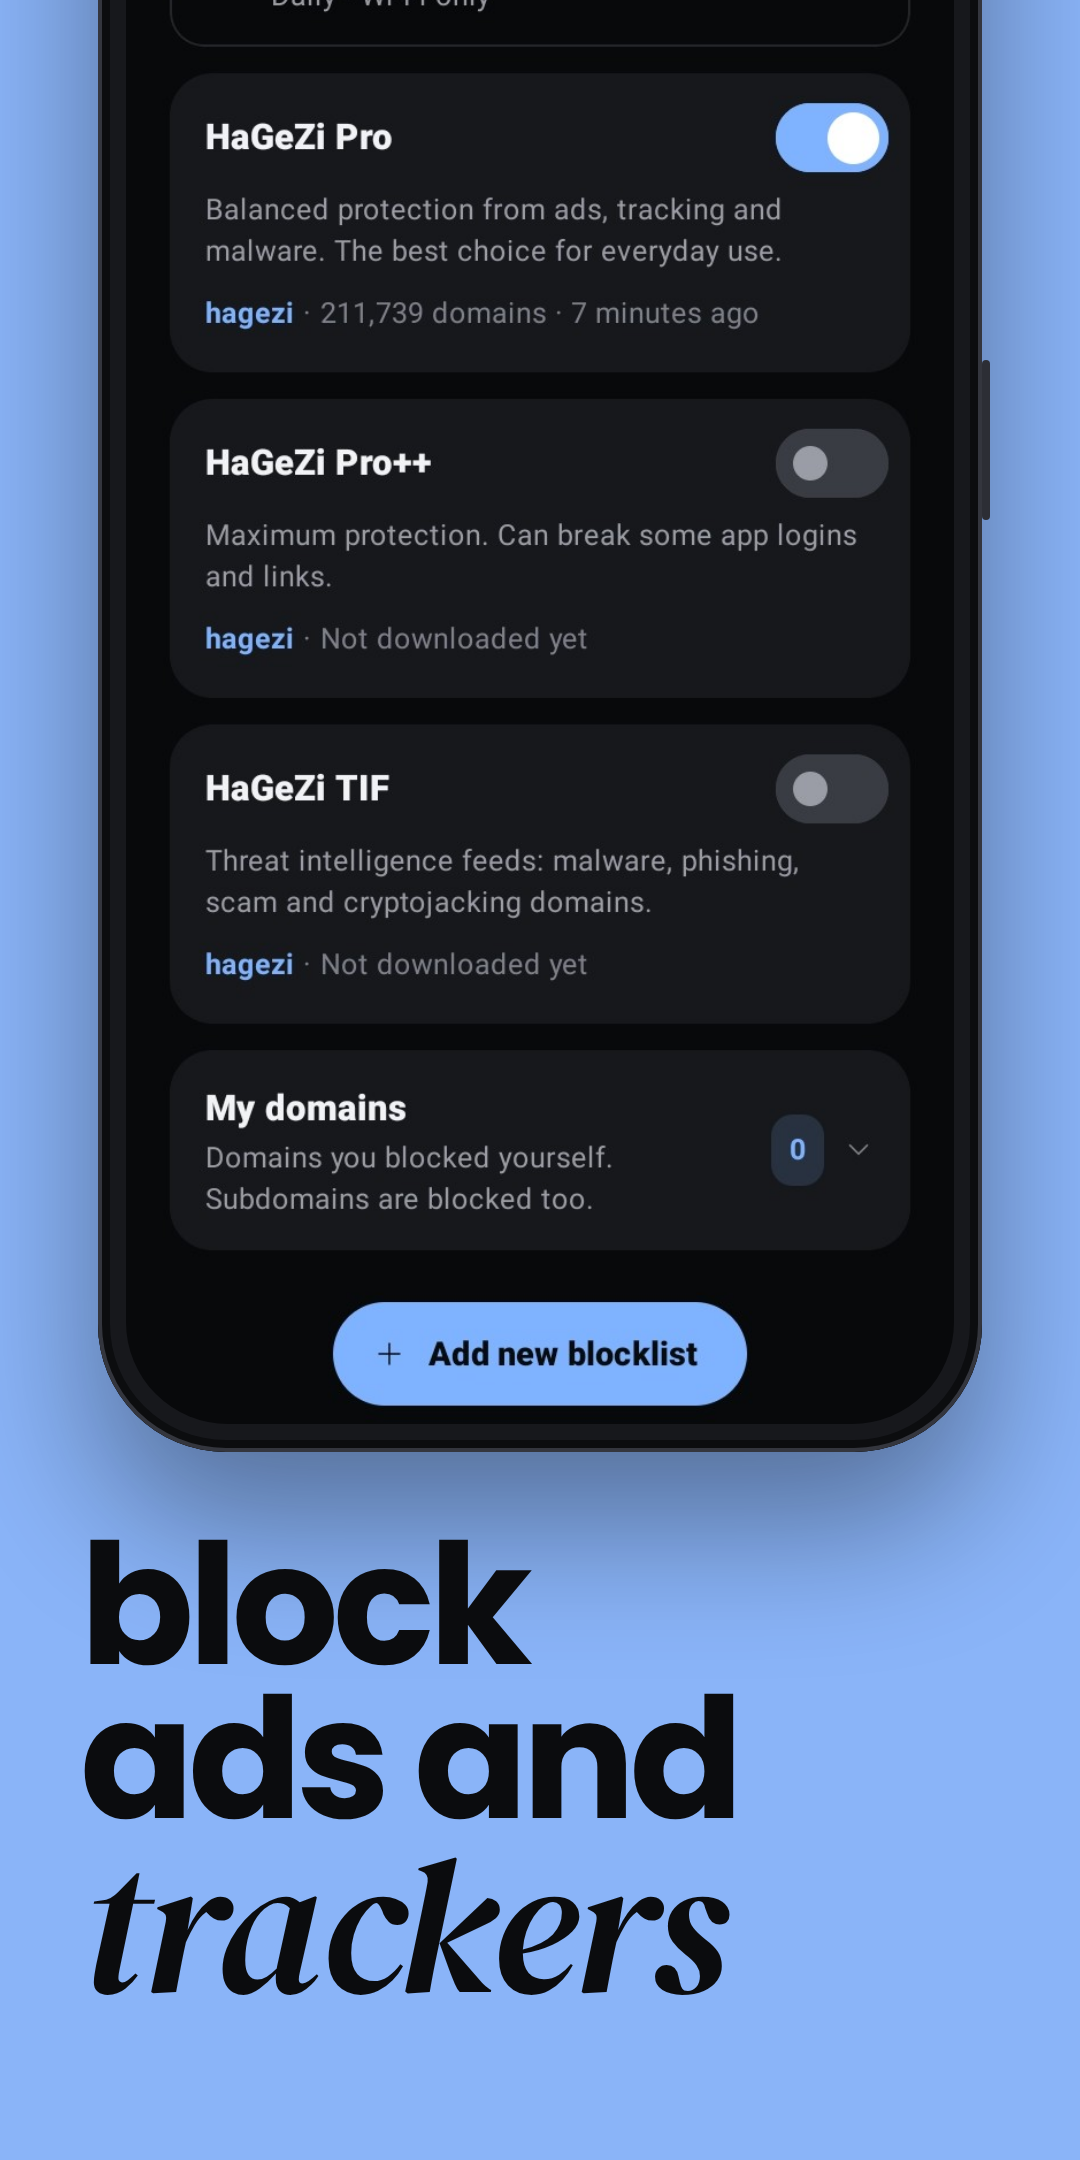
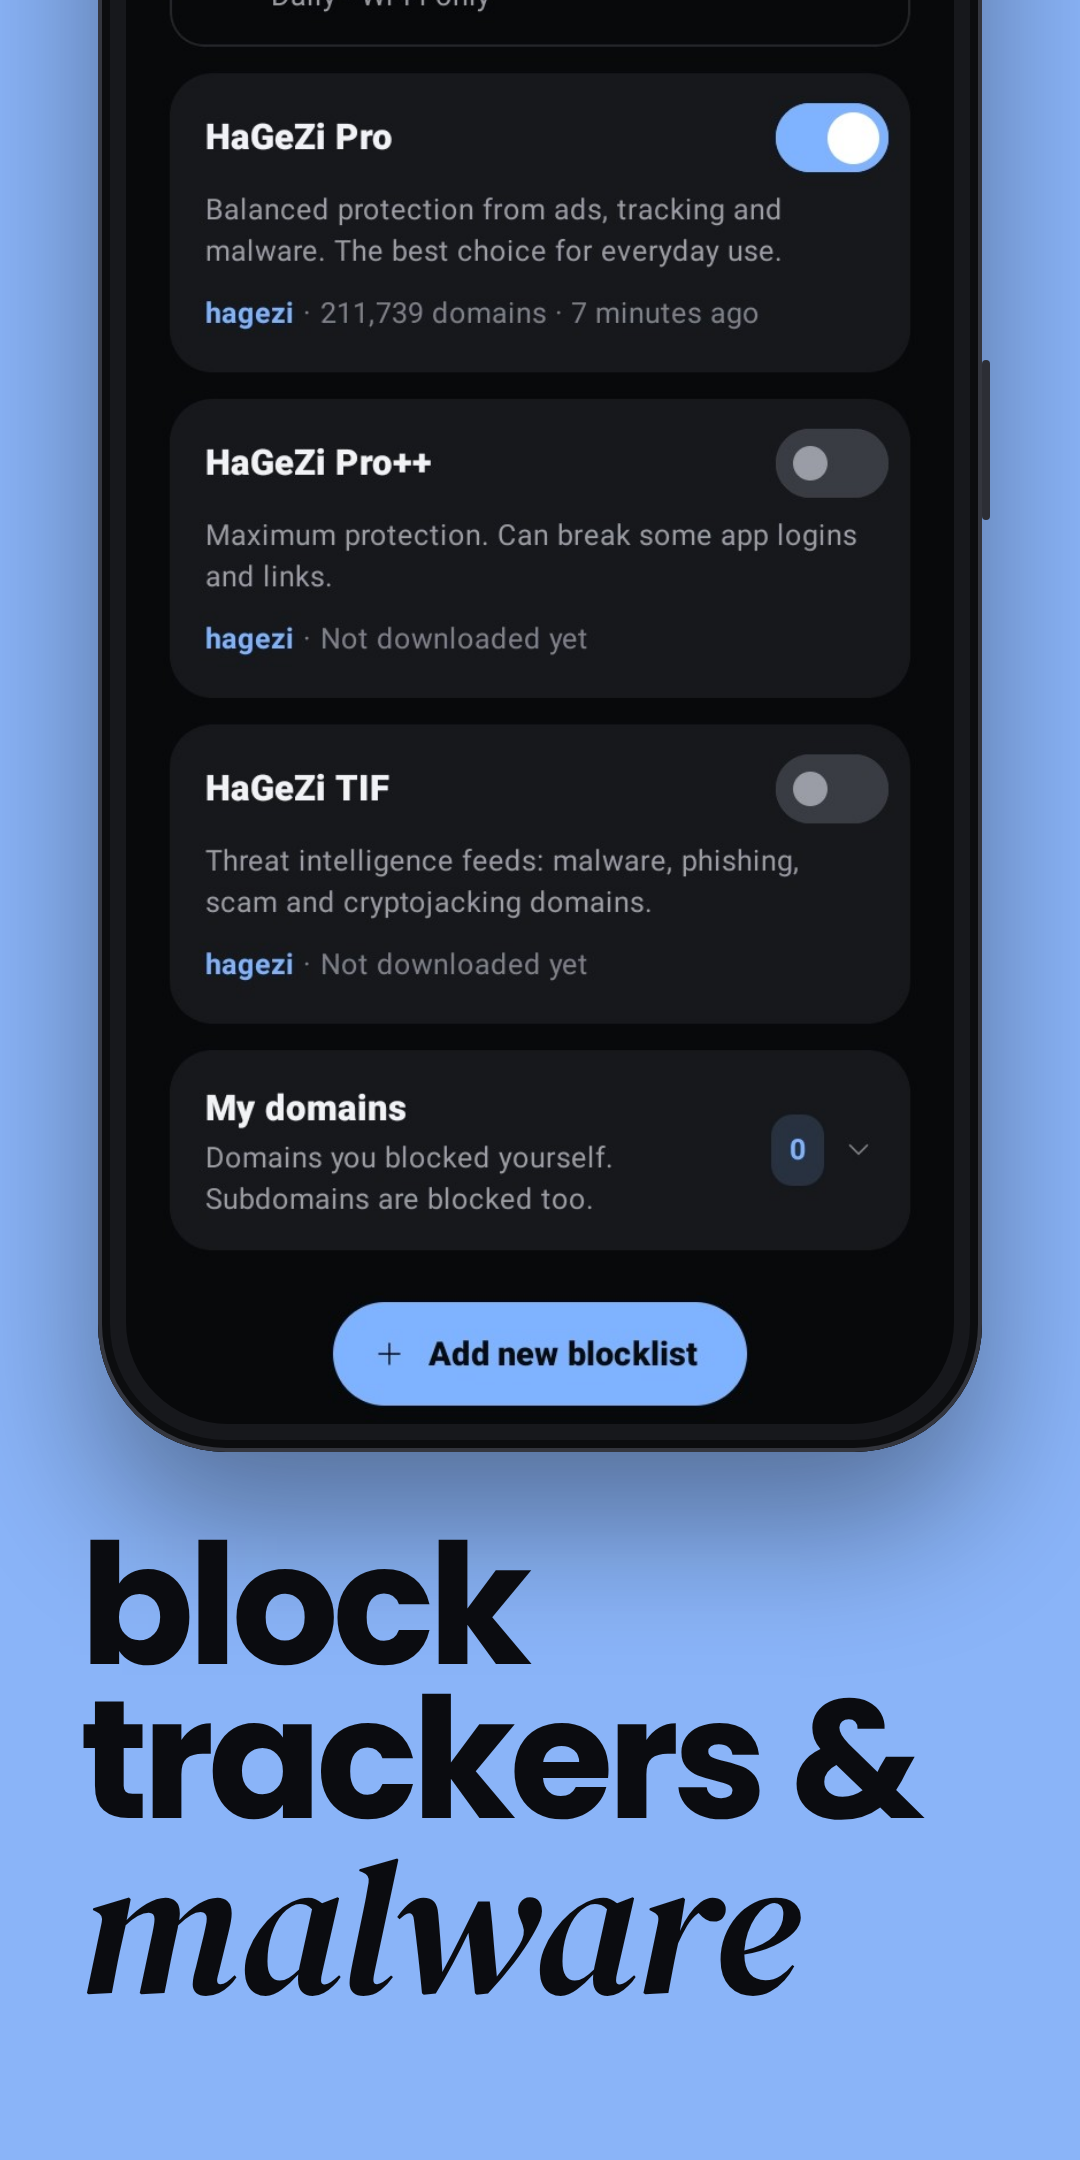
Screenshot: block trackers and malware instead of ads

Changed region(s): [[0.0611, 0.7755, 0.7333, 0.9306], [0.7333, 0.7755, 0.8556, 0.8685]]

diff --git a/README.md b/README.md
@@ -29,7 +29,7 @@
 <p align="center">
   <img src="assets/screenshots/1-private-dns-left.png" width="160" alt="Private DNS in one tap"><img src="assets/screenshots/2-private-dns-right.png" width="160" alt="You're protected">
   <img src="assets/screenshots/3-see-every-request.png" width="160" alt="See every request">
-  <img src="assets/screenshots/4-block-ads-and-trackers.png" width="160" alt="Block ads and trackers">
+  <img src="assets/screenshots/4-block-trackers-and-malware.png" width="160" alt="Block trackers and malware">
 </p>
 
 > [!TIP]
